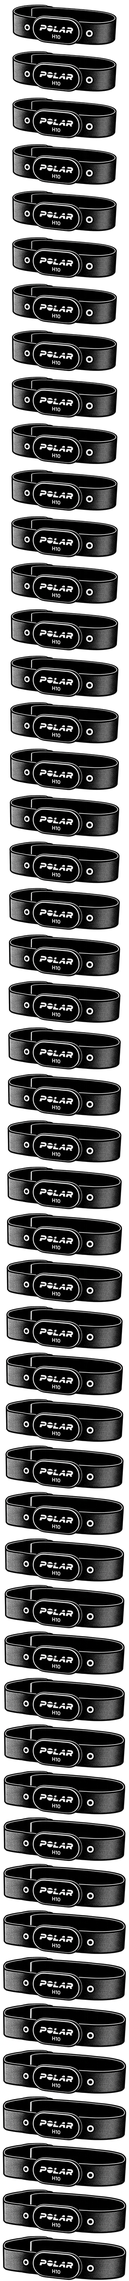
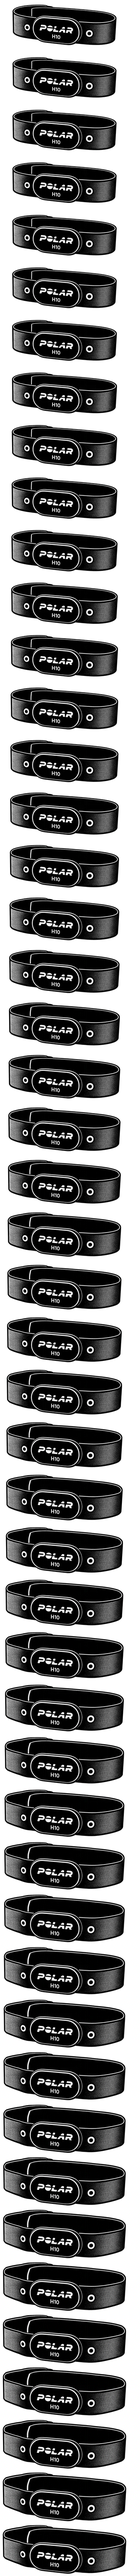
Bring the Polar sensor pod forward as the chest expands

diff --git a/index.html b/index.html
@@ -282,16 +282,16 @@
             </div>
             <svg class="milestone-figure validation-phone" viewBox="0 0 380 218" role="img" aria-labelledby="validation-figure" aria-describedby="validation-description">
               <title id="validation-figure" data-en="Three breathing signals on a shared timeline">Drei Atemsignale im Zeitvergleich</title>
-              <desc id="validation-description" data-en="The solid blue line shows breathing movement measured by the phone. Above it, the Polar H10 strap expands on inhalation and contracts on exhalation. Its accelerometer data arrives over Bluetooth and appears as ochre dashes. The spirometer on the right sends airflow readings, shown as teal dots. The particles in its tube reverse direction with each inhalation and exhalation.">Die blaue, durchgezogene Kurve zeigt die Atembewegung am Smartphone. Darüber weitet sich der Brustgurt des Polar H10 beim Einatmen und zieht sich beim Ausatmen zusammen. Seine Beschleunigungsdaten kommen per Bluetooth an und erscheinen als ockerfarbene Striche. Das Spirometer rechts sendet den Atemfluss. Seine Kurve ist türkis und gepunktet. Im Messrohr wechseln die Teilchen beim Ein- und Ausatmen die Richtung.</desc>
+              <desc id="validation-description" data-en="The solid blue line shows breathing movement measured by the phone. Above it, the Polar H10 strap expands and its sensor pod moves forward as the chest rises. Both return on exhalation. Its accelerometer data arrives over Bluetooth and appears as ochre dashes. The spirometer on the right sends airflow readings, shown as teal dots. The particles in its tube reverse direction with each inhalation and exhalation.">Die blaue, durchgezogene Kurve zeigt die Atembewegung am Smartphone. Darüber weitet sich der Brustgurt des Polar H10 beim Einatmen. Der Sensor bewegt sich mit dem Brustkorb nach vorn. Beim Ausatmen zieht sich der Gurt zusammen und der Sensor bewegt sich zurück. Seine Beschleunigungsdaten kommen per Bluetooth an und erscheinen als ockerfarbene Striche. Das Spirometer rechts sendet den Atemfluss. Seine Kurve ist türkis und gepunktet. Im Messrohr wechseln die Teilchen beim Ein- und Ausatmen die Richtung.</desc>
               <defs>
                 <clipPath id="spirometer-frame"><rect width="256" height="300"/></clipPath>
-                <clipPath id="h10-breath-frame"><rect width="344" height="124"/></clipPath>
+                <clipPath id="h10-breath-frame"><rect width="344" height="140"/></clipPath>
                 <clipPath id="validation-phase-window"><rect x="283" y="164" width="96" height="22"/></clipPath>
               </defs>
               <g class="device">
                 <g transform="translate(30 2.8) scale(.475)">
                   <g clip-path="url(#h10-breath-frame)">
-                    <image class="h10-breath-frames" href="assets/illustrations/polar-h10-breathing.webp" width="344" height="6076"/>
+                    <image class="h10-breath-frames" href="assets/illustrations/polar-h10-breathing.webp" width="344" height="6860"/>
                   </g>
                 </g>
                 <g class="polar-stream device-link">

diff --git a/styles.css b/styles.css
@@ -901,7 +901,7 @@ img.portrait {
 @keyframes transmit-stream { to { stroke-dashoffset: calc(-1 * var(--dash-period)); } }
 @keyframes spirometer-row { from { transform: translateY(0); } to { transform: translateY(-1200px); } }
 /* Reversing the 49 poses plays exhalation on the same clock as the phase label. */
-@keyframes expand-strap { to { transform: translateY(-5952px); } }
+@keyframes expand-strap { to { transform: translateY(-6720px); } }
 @keyframes spirometer-column { from { transform: translateX(0); } to { transform: translateX(-3072px); } }
 @keyframes breath-label { 50%, 100% { transform: translateY(-25px); } }
 /* Follow the two respiratory crests crossed by the comparison cursor. */

diff --git a/scripts/generate-belt.py b/scripts/generate-belt.py
@@ -8,24 +8,38 @@ from scipy.ndimage import map_coordinates
 
 
 ART = Path(__file__).resolve().parents[1] / "assets/illustrations"
-FRAME_SIZE = (688, 248)
+FRAME_SIZE = (688, 280)
 INHALE_STEPS = 48
 
 
 def belt_frame(pixels, step):
     expansion = (1 - np.cos(np.pi * step / INHALE_STEPS)) / 2
     y, x = np.indices(FRAME_SIZE[::-1], dtype=float)
+    x -= 64
+    y -= 22
+
+    # In this oblique view the chest moves toward the camera and slightly left.
+    # Project the pod as one rigid face; ease that motion into the adjoining band.
+    rear_edge = .07 * x - 2 - 16 * expansion
+    depth = np.clip((y - rear_edge) / (46 + 30 * expansion), 0, 1)
+    across = np.interp(x, [-60, 94, 390, 618], [0, 1, 1, 0])
+    across = across**2 * (3 - 2 * across)
+    approach = expansion * across * depth**2 * (3 - 2 * depth)
+    scale = 1 + .07 * approach
+    x = 240 + (x - 240 + 8 * approach) / scale
+    y = 138 + (y - 138 - 20 * approach) / scale
+
     # The fabric stretches between the rigid pod, snap fasteners and strap ends.
     anchors = np.array([0, 18, 58, 102, 110, 376, 389, 439, 534, 559])
     travel = np.array([-52, -51, -7, -7, 0, 0, 6, 6, 51, 52])
-    source_x = np.interp(x - 64, anchors + travel * expansion, anchors,
+    source_x = np.interp(x, anchors + travel * expansion, anchors,
                          left=-1, right=560)
     # Open the loop in depth, leaving the face of the sensor undistorted.
     rear = .07 * source_x - 2
     rear_shift = -16 * expansion
     front_shift = 2 * expansion
-    depth = np.clip((y - 22 - rear - rear_shift) / (47 + front_shift - rear_shift), 0, 1)
-    source_y = y - 22 - (rear_shift + depth * (front_shift - rear_shift))
+    depth = np.clip((y - rear - rear_shift) / (47 + front_shift - rear_shift), 0, 1)
+    source_y = y - (rear_shift + depth * (front_shift - rear_shift))
     channels = [map_coordinates(channel, (source_y, source_x), order=1,
                                 mode="grid-constant") for channel in pixels.transpose(2, 0, 1)]
     return Image.frombytes("RGBa", FRAME_SIZE, np.stack(channels, axis=-1).tobytes()).convert("RGBA")
@@ -48,15 +62,15 @@ def main():
     font = ImageFont.load_default(size=26)
     for i, pose in enumerate(poses + poses[-2:0:-1]):
         inhale = i < INHALE_STEPS
-        frame = Image.new("RGB", (752, 328), "#1c2421")
+        frame = Image.new("RGB", (752, 352), "#1c2421")
         frame.paste(pose, (32, 15), pose.getchannel("A"))
-        ImageDraw.Draw(frame).text((376, 286), "Inhale" if inhale else "Exhale",
+        ImageDraw.Draw(frame).text((376, 312), "Inhale" if inhale else "Exhale",
                                    font=font, anchor="mm", fill="#9cd8f0" if inhale else "#f0b86a")
         frames.append(frame)
     # Use one palette across both phases to keep the fabric texture stable.
-    colors = Image.new("RGB", (752, 656))
+    colors = Image.new("RGB", (frames[0].width, frames[0].height * 2))
     colors.paste(frames[0])
-    colors.paste(frames[INHALE_STEPS], (0, 328))
+    colors.paste(frames[INHALE_STEPS], (0, frames[0].height))
     palette = colors.quantize(256)
     frames = [f.quantize(palette=palette, dither=Image.Dither.NONE) for f in frames]
     ticks = [round(i * 200 / INHALE_STEPS) for i in range(len(frames) + 1)]

diff --git a/for-ai/PROJECT.md b/for-ai/PROJECT.md
@@ -97,7 +97,8 @@ nodes in the overview and separate boxes for foundations, milestones and people.
   solid blue. The Polar H10 above it uses ochre dashes and the spirometer to
   its right uses teal dots, with matching Bluetooth paths into the display.
   The Polar strap expands through the two-second inhale and contracts through
-  the two-second exhale. Its sensor face stays rigid. Regenerate its frame
+  the two-second exhale. Its rigid sensor pod moves toward the viewer as the
+  chest rises and recedes as the chest settles. Regenerate its frame
   strip with `python scripts/generate-belt.py`.
   The WebP atlas uses the Blender camera `Webansicht · Messkopf und Griff`,
   frames 1 to 95 at every other frame, in four rows of twelve 256 × 300 px
